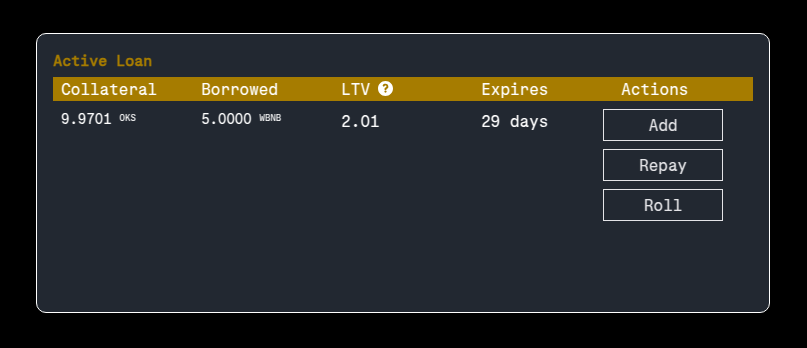
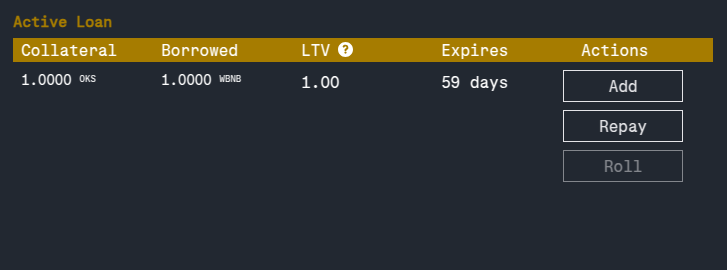
add gifs, borrow section

diff --git a/docs/exchange/borrow.md b/docs/exchange/borrow.md
@@ -9,7 +9,7 @@ Holders can borrow reserve assets against their token holdings through the Oikos
      3. Borrow button
 
 <div>
-  <img src="/assets/img/borrow_new_loan.png" alt="Trade Info" style="width: 80%; max-width: 700px; border-radius: 8px; margin: 20px 0;" />
+  <img src="/assets/img/borrow.gif" alt="Trade Info" style="width: 80%; max-width: 700px; border-radius: 8px; margin: 20px 0;" />
 </div>
 
 Holder chooses the amount of tokens to borrow and the duration of the loan. The interface displays the collateral requirements and any associated fees. Once satisfied with the terms, they can click the "Borrow" button to initiate the loan.
@@ -45,7 +45,7 @@ Holders with an active loan can add more collateral to their loan. This is usefu
      3. Click "Confirm"
 
 <div>
-  <img src="/assets/img/borrow_add_collateral.png" alt="Trade Info" style="width: 80%; max-width: 300px; border-radius: 8px; margin: 20px 0;" />
+  <img src="/assets/img/add_collateral.gif" alt="Trade Info" style="width: 80%; max-width: 300px; border-radius: 8px; margin: 20px 0;" />
 </div>
 
 <br />
@@ -57,7 +57,7 @@ Holders with an active loan can extinguish it by repaying the borrowed amount:
     1. Click on the "Repay" button to initiate the process. 
 
 <div>
-  <img src="/assets/img/borrow_repay_loan.png" alt="Trade Info" style="width: 80%; max-width: 700px; border-radius: 8px; margin: 20px 0;" />
+  <img src="/assets/img/repay.gif" alt="Trade Info" style="width: 80%; max-width: 700px; border-radius: 8px; margin: 20px 0;" />
 </div>
 
 <br />
